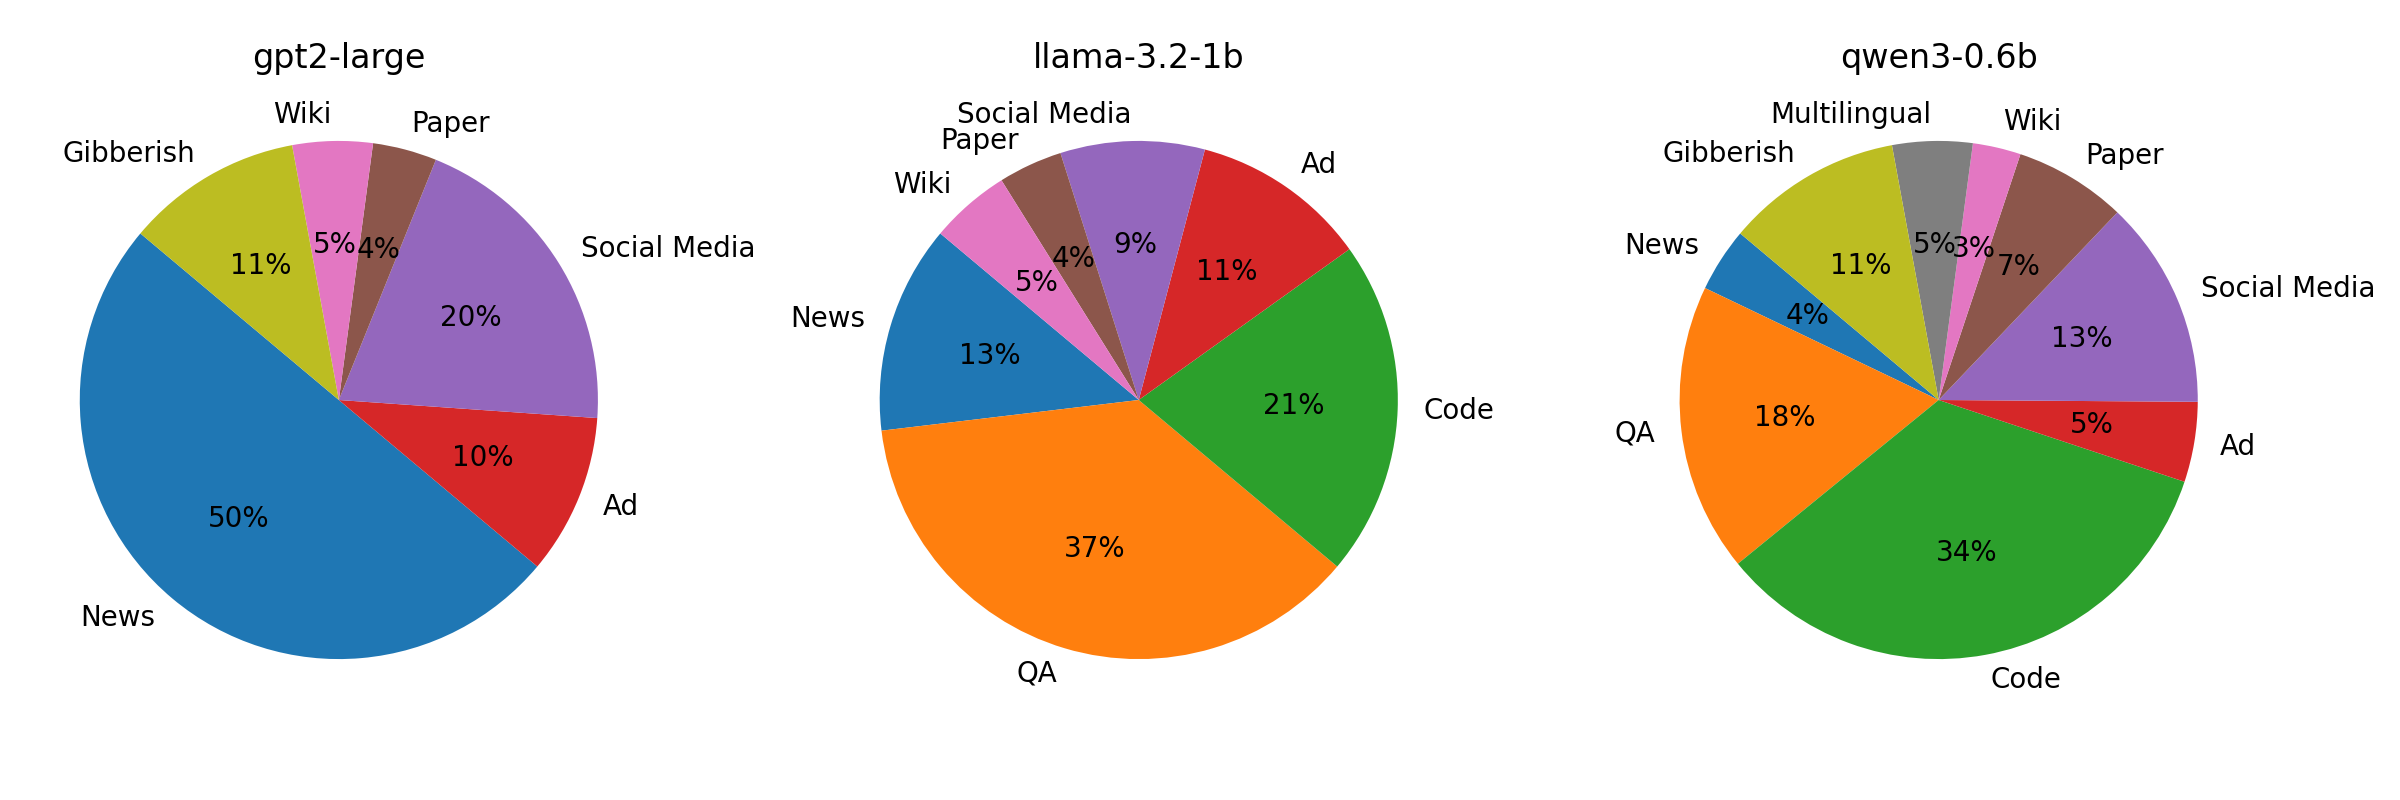
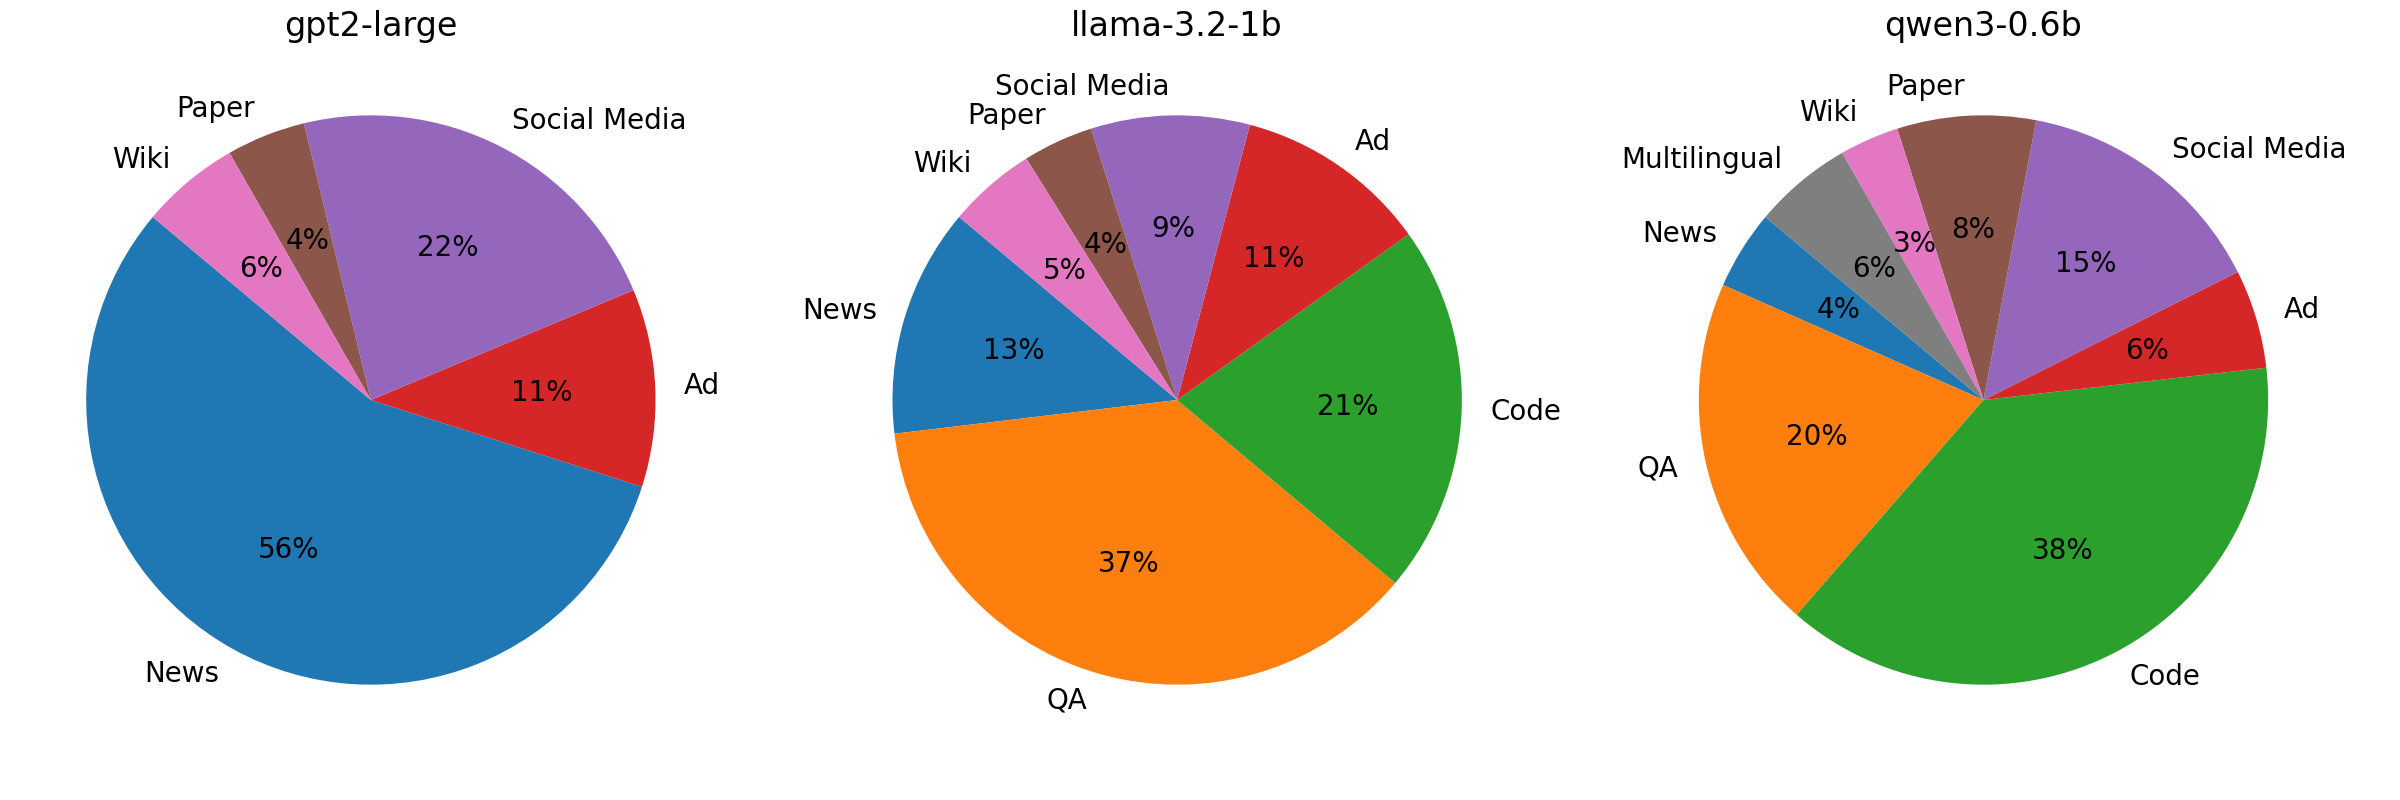
Exclude Gibberish in pie chart

diff --git a/classify.py b/classify.py
@@ -106,6 +106,11 @@ def plot_stats(csv_path, output_path):
             if count > 0:
                 # Apply mapping or use original name
                 display_name = category_map.get(cat, cat)
+                
+                # Exclude Gibberish
+                if display_name == "Gibberish":
+                    continue
+
                 labels.append(display_name)
                 sizes.append(count)
         
